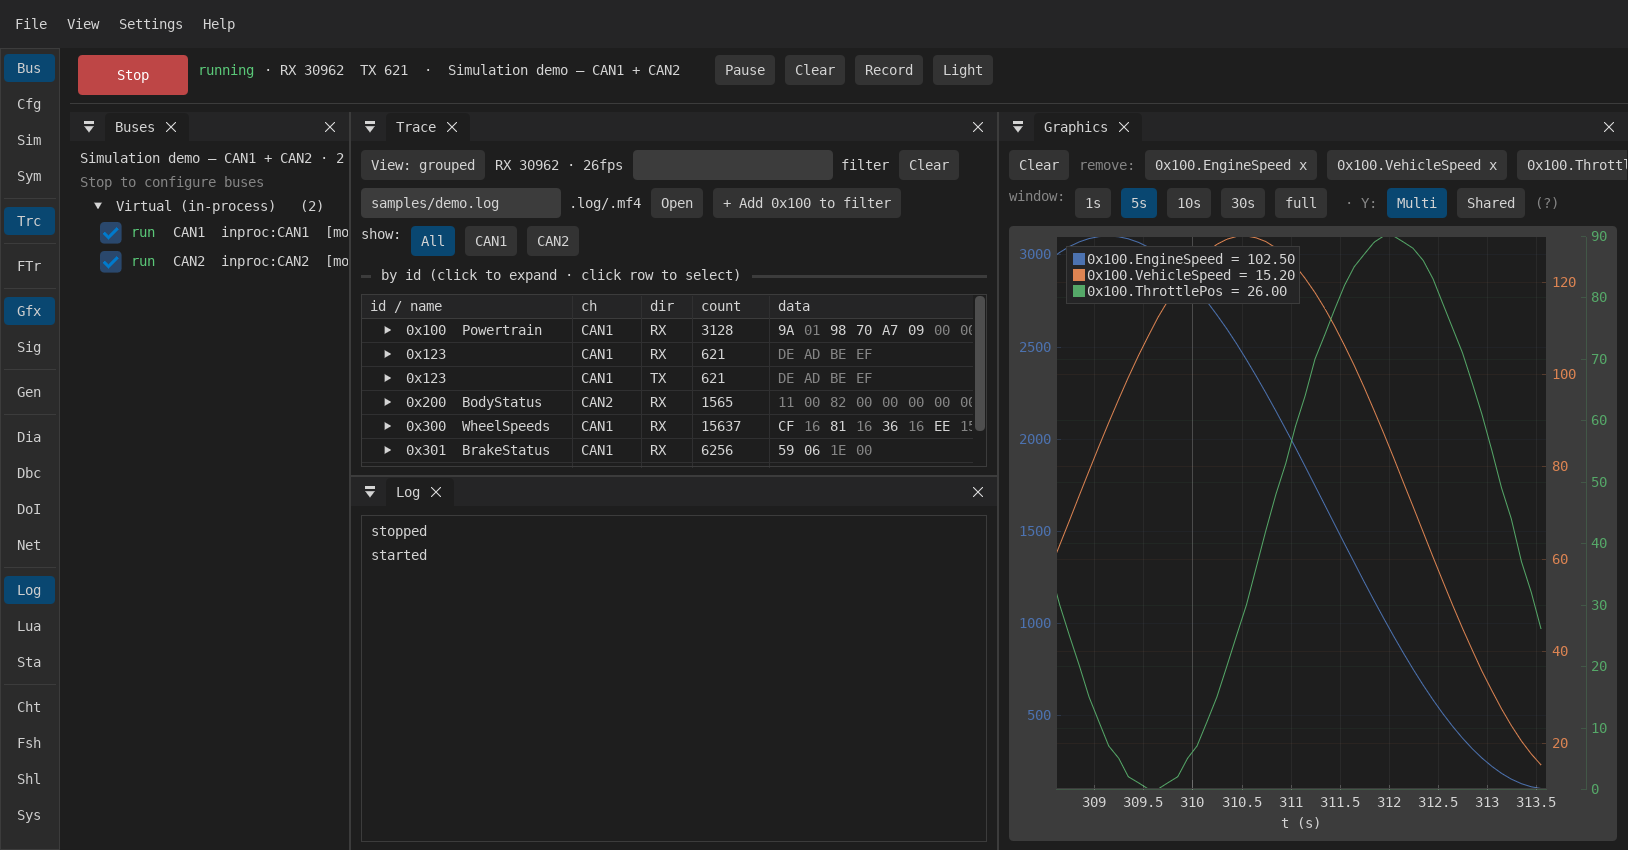
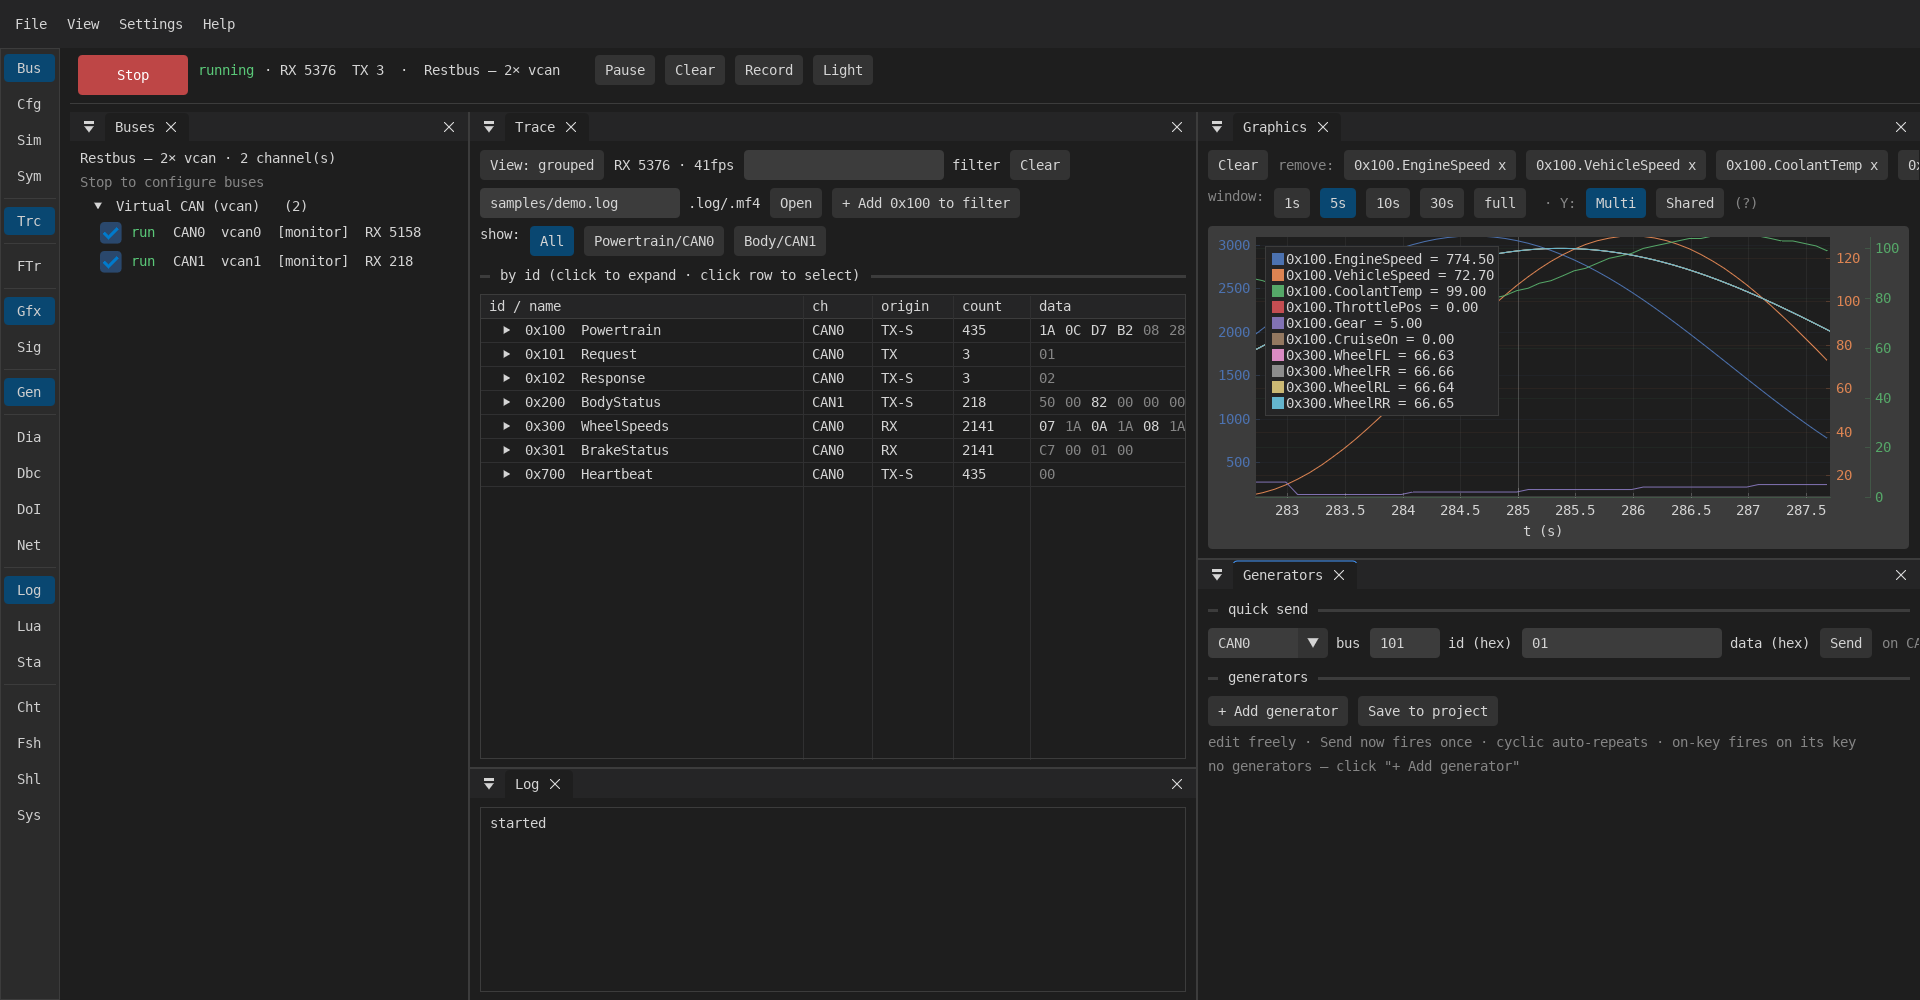
The overview screenshot shows what origin is for (#104)
* docs: the overview screenshot shows what origin is for

The README's first screenshot still showed the old `dir` column, every row
labelled RX — including the frames we were transmitting ourselves. That is the
exact confusion the origin column was added to end, so it was the wrong picture
to lead with.

Reshot against a scene that needs all three labels: the restbus-2vcan project on
real vcan interfaces, a stand-in chassis ECU sending WheelSpeeds/BrakeStatus from
another process, and a tester Request fired from quick send. TX-S = our rest-bus
simulation, RX = the real ECU, TX = the tester. Caption rewritten to say so, and
the plots now mix a simulated signal with a real one on one timeline.

The origin column also gets 12px more: 52 was sized for `dir`, and `origin`
elided to `orig…` in a fresh layout. (An existing imgui.ini keeps its own width —
this only fixes the default.)

Also corrects docs/project_editing.md, which still described the trace filter as
matching id/name/ch/**dir**/data.

docs/screenshots/trace-multicore-h755.png still shows `dir` — it is a live
capture from the H755 bench, so it needs silicon to redo. Left for the bench.

46/46 modules, GUI builds, verified live on vcan0/vcan1.

* docs: the caption says stand-in, because that is what the shot shows

RX means "Blobly Net did not send this" — it cannot tell a separate process on
vcan0 from a real ECU, and the caption should not either. The scene used a
[…]

diff --git a/README.md b/README.md
@@ -32,9 +32,13 @@ editing a DBC or watching a live plot needs the GUI.)
 
 ![Blobly Net — live trace, decoded signals and real-time plots](docs/screenshots/overview.png)
 
-*The `sim-demo` project running with no hardware: two in-process CAN networks with simulated
-ECUs, the grouped trace (decoded via DBC), and live multi-axis plots of `EngineSpeed`,
-`VehicleSpeed` and `ThrottlePos`.*
+*The `restbus-2vcan` project on two virtual CAN networks. The **origin** column says who put
+each frame on the wire: `TX-S` is our own rest-of-bus simulation (Powertrain, BodyStatus,
+Heartbeat, and the Response it answered with), `TX` is the tester's own Request, and `RX` is
+everything Blobly Net did not send — here a stand-in chassis ECU running as a separate process
+on `vcan0` (WheelSpeeds, BrakeStatus). On a bench that same `RX` is the device under test; the
+label means "not ours", and cannot tell a stand-in from silicon. The plots mix the two sources
+on one timeline.*
 
 ## Get it
 

diff --git a/docs/project_editing.md b/docs/project_editing.md
@@ -313,7 +313,7 @@ needed for the first cut.
 
 Today the Trace merges all buses into one view with a `ch` column; the only way to narrow
 to a bus is typing its name into the substring filter (`trace_pass`, `main.v:1565`, matches
-id/name/**ch**/dir/data). There is no first-class "watch this bus" control, which is
+id/name/**ch**/origin/data). There is no first-class "watch this bus" control, which is
 awkward for the common multi-bus case (e.g. a 2-vcan ECU restbus — you want vcan0 and vcan1
 separable). Since the config now defines the bus/network list, the Trace reads it directly.
 
